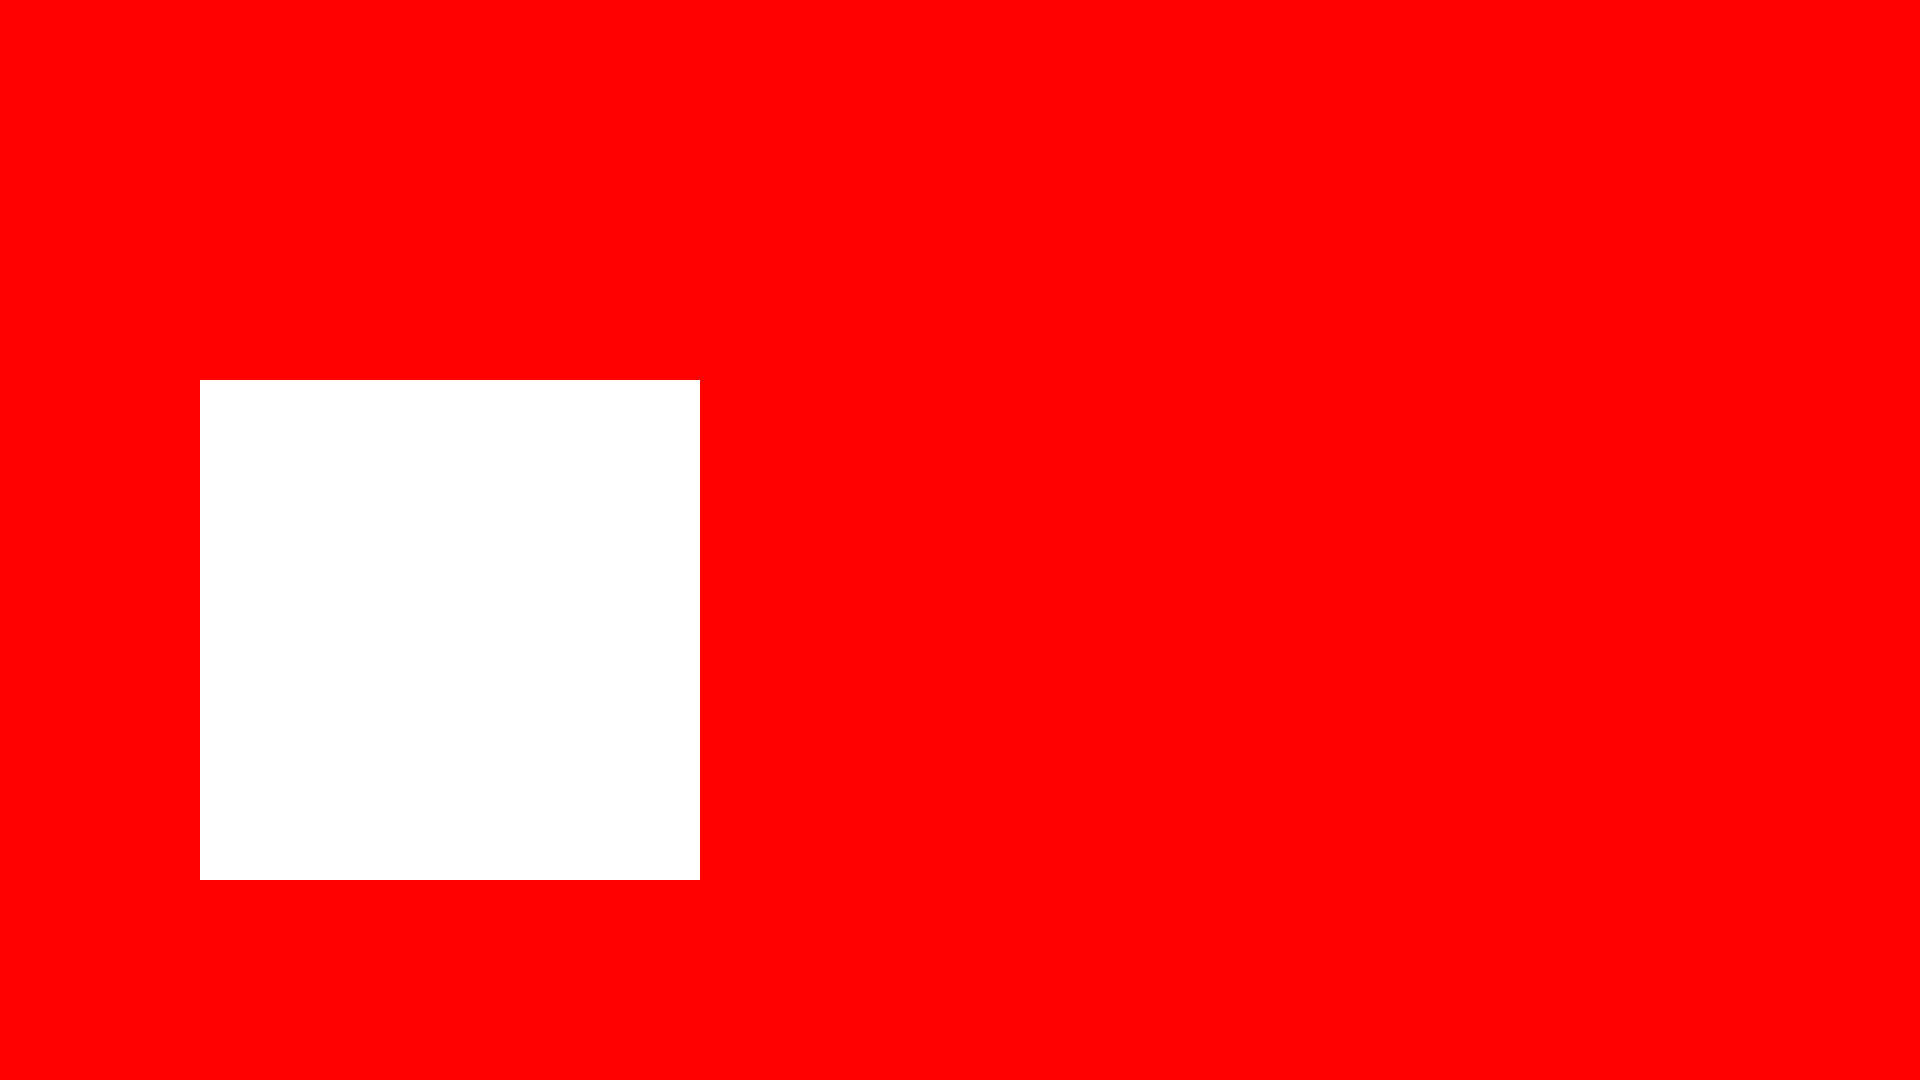
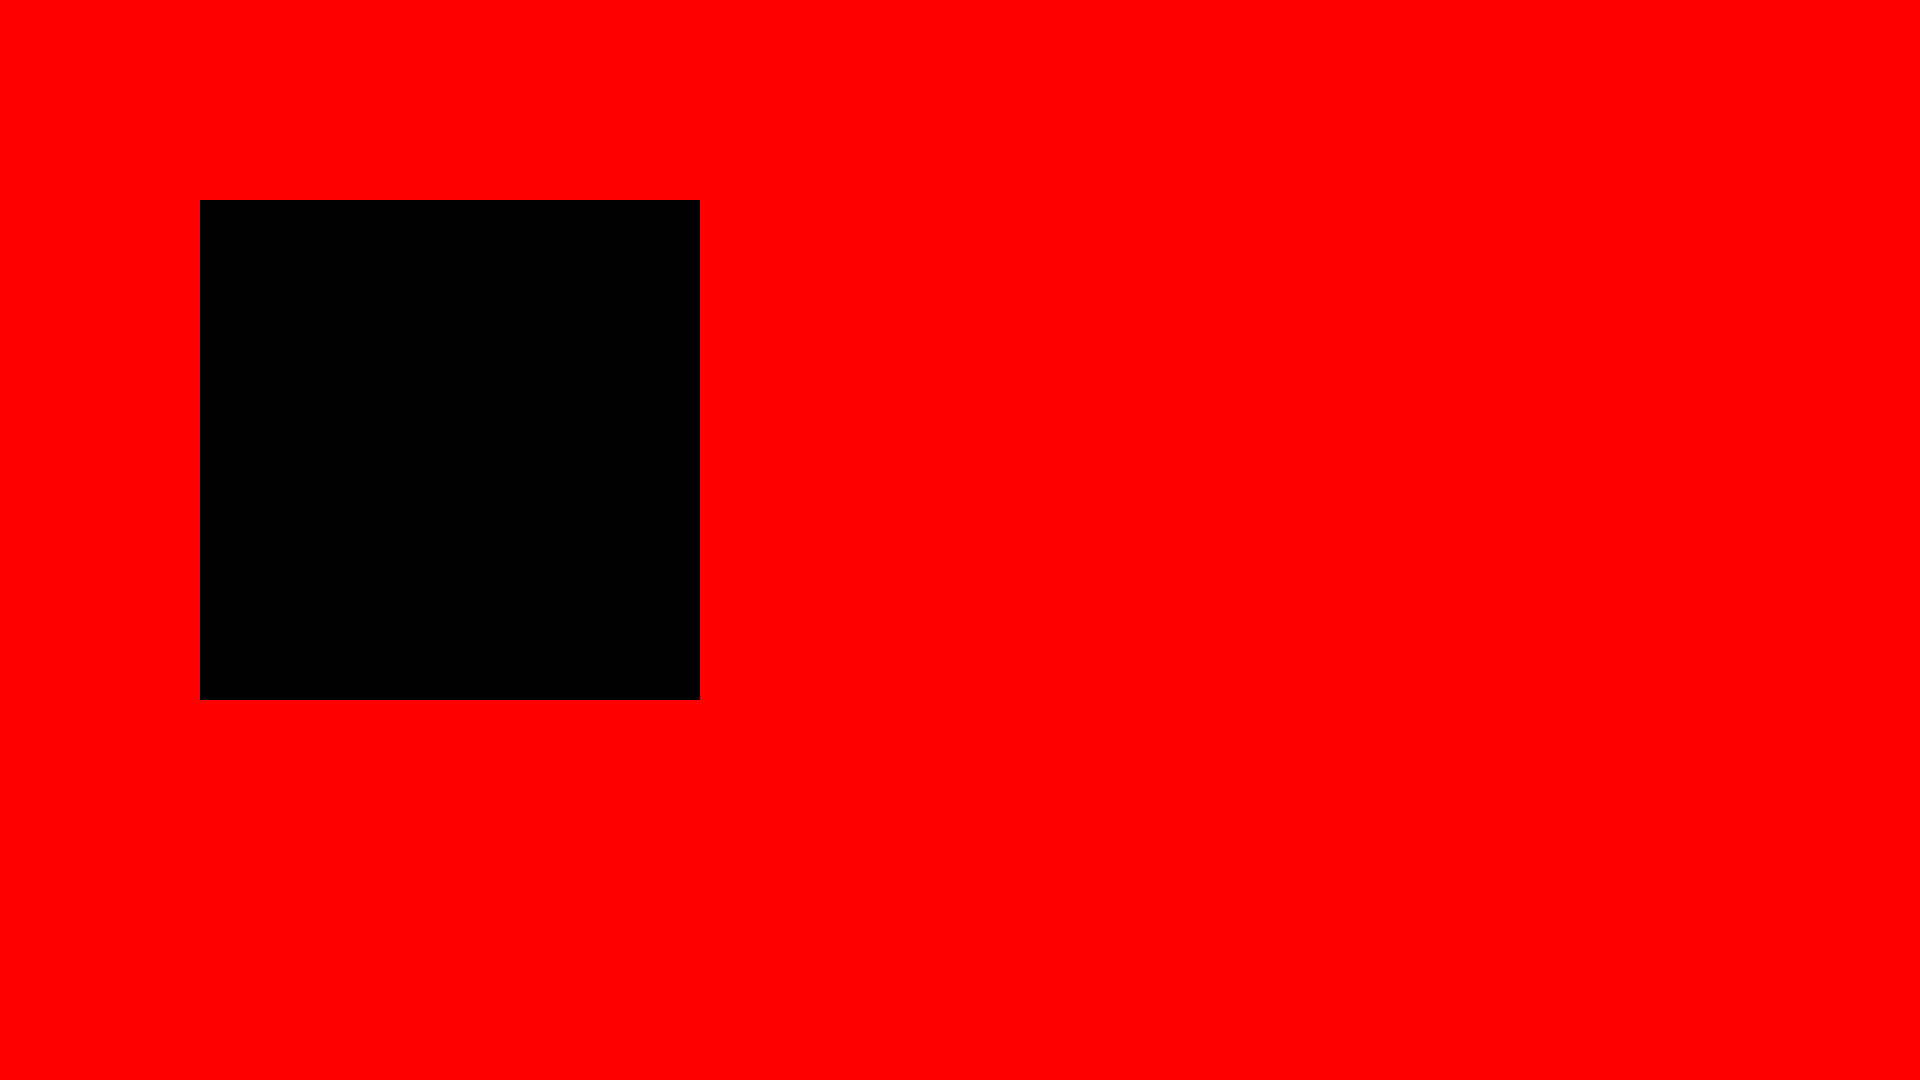
[0.5.2] fix Canvas::clearRect

Changed region(s): [[0.0938, 0.1833, 0.375, 0.825]]

diff --git a/canvas2D/src/Canvas.cpp b/canvas2D/src/Canvas.cpp
@@ -70,6 +70,8 @@ namespace canvas2D{
     }
 
     void Canvas::resize(const int w, const int h){
+        m_size = {w,h};
+        glViewport(0,0,w,h);
         m_projection = glm::ortho(0.f,static_cast<float>(w),static_cast<float>(h),0.f);
     }
 
@@ -141,8 +143,8 @@ namespace canvas2D{
 
     void Canvas::clearRect(const float x, const float y, const float w, const float h){
         glEnable(GL_SCISSOR_TEST);
-        glScissor((asInt(x)), asInt(y), asInt(w), asInt(h));
-        glClearColor(1, 1, 1, 1);
+        glScissor((asInt(x)), asInt(m_size.y - y - h), asInt(w), asInt(h));
+        glClearColor(0, 0, 0, 0);
         glClear(GL_COLOR_BUFFER_BIT);
         glDisable(GL_SCISSOR_TEST);
     }

diff --git a/example/main.cpp b/example/main.cpp
@@ -10,7 +10,7 @@ Example* getExample(GLFWwindow* w) {
 
 void framebuffer_size_callback(GLFWwindow* window, int width, int height) {
     if (const auto p = getExample(window); p != nullptr) {
-        p->onResize({width,height});
+        p->onResize(glm::ivec2{width,height});
     }
 }
 

diff --git a/example/Example.cpp b/example/Example.cpp
@@ -11,8 +11,8 @@ void Example::onMouse(const glm::vec2& mouse){
 
 }
 
-void Example::onResize(const glm::vec2& size){
-
+void Example::onResize(const glm::ivec2& size){
+    canvas.resize(size.x,size.y);
 }
 
 void Example::onKey(int k, int a, int m){

diff --git a/example/Example.hpp b/example/Example.hpp
@@ -9,7 +9,7 @@ public:
 
     void onDraw();
     void onMouse(const glm::vec2& mouse);
-    void onResize(const glm::vec2& size);
+    void onResize(const glm::ivec2& size);
     void onKey(int k, int a, int m);
 private:
     canvas2D::Canvas canvas;

diff --git a/canvas2D/include/canvas2D/Canvas.hpp b/canvas2D/include/canvas2D/Canvas.hpp
@@ -93,6 +93,7 @@ namespace canvas2D{
         glm::mat4 m_transform{1.f};
         glm::mat4 m_projection{1.f};
         Path m_path;
+        glm::vec2 m_size{0.f};
     };
 
 };

diff --git a/README.md b/README.md
@@ -18,6 +18,6 @@
 
 ### Screenshot ([see example](example/Example.cpp))
 
-![image](example/screenshots/img_clearRect.png)
+![image](example/screenshots/.png)
 
  Older screenshots [here](/example/screenshots)
